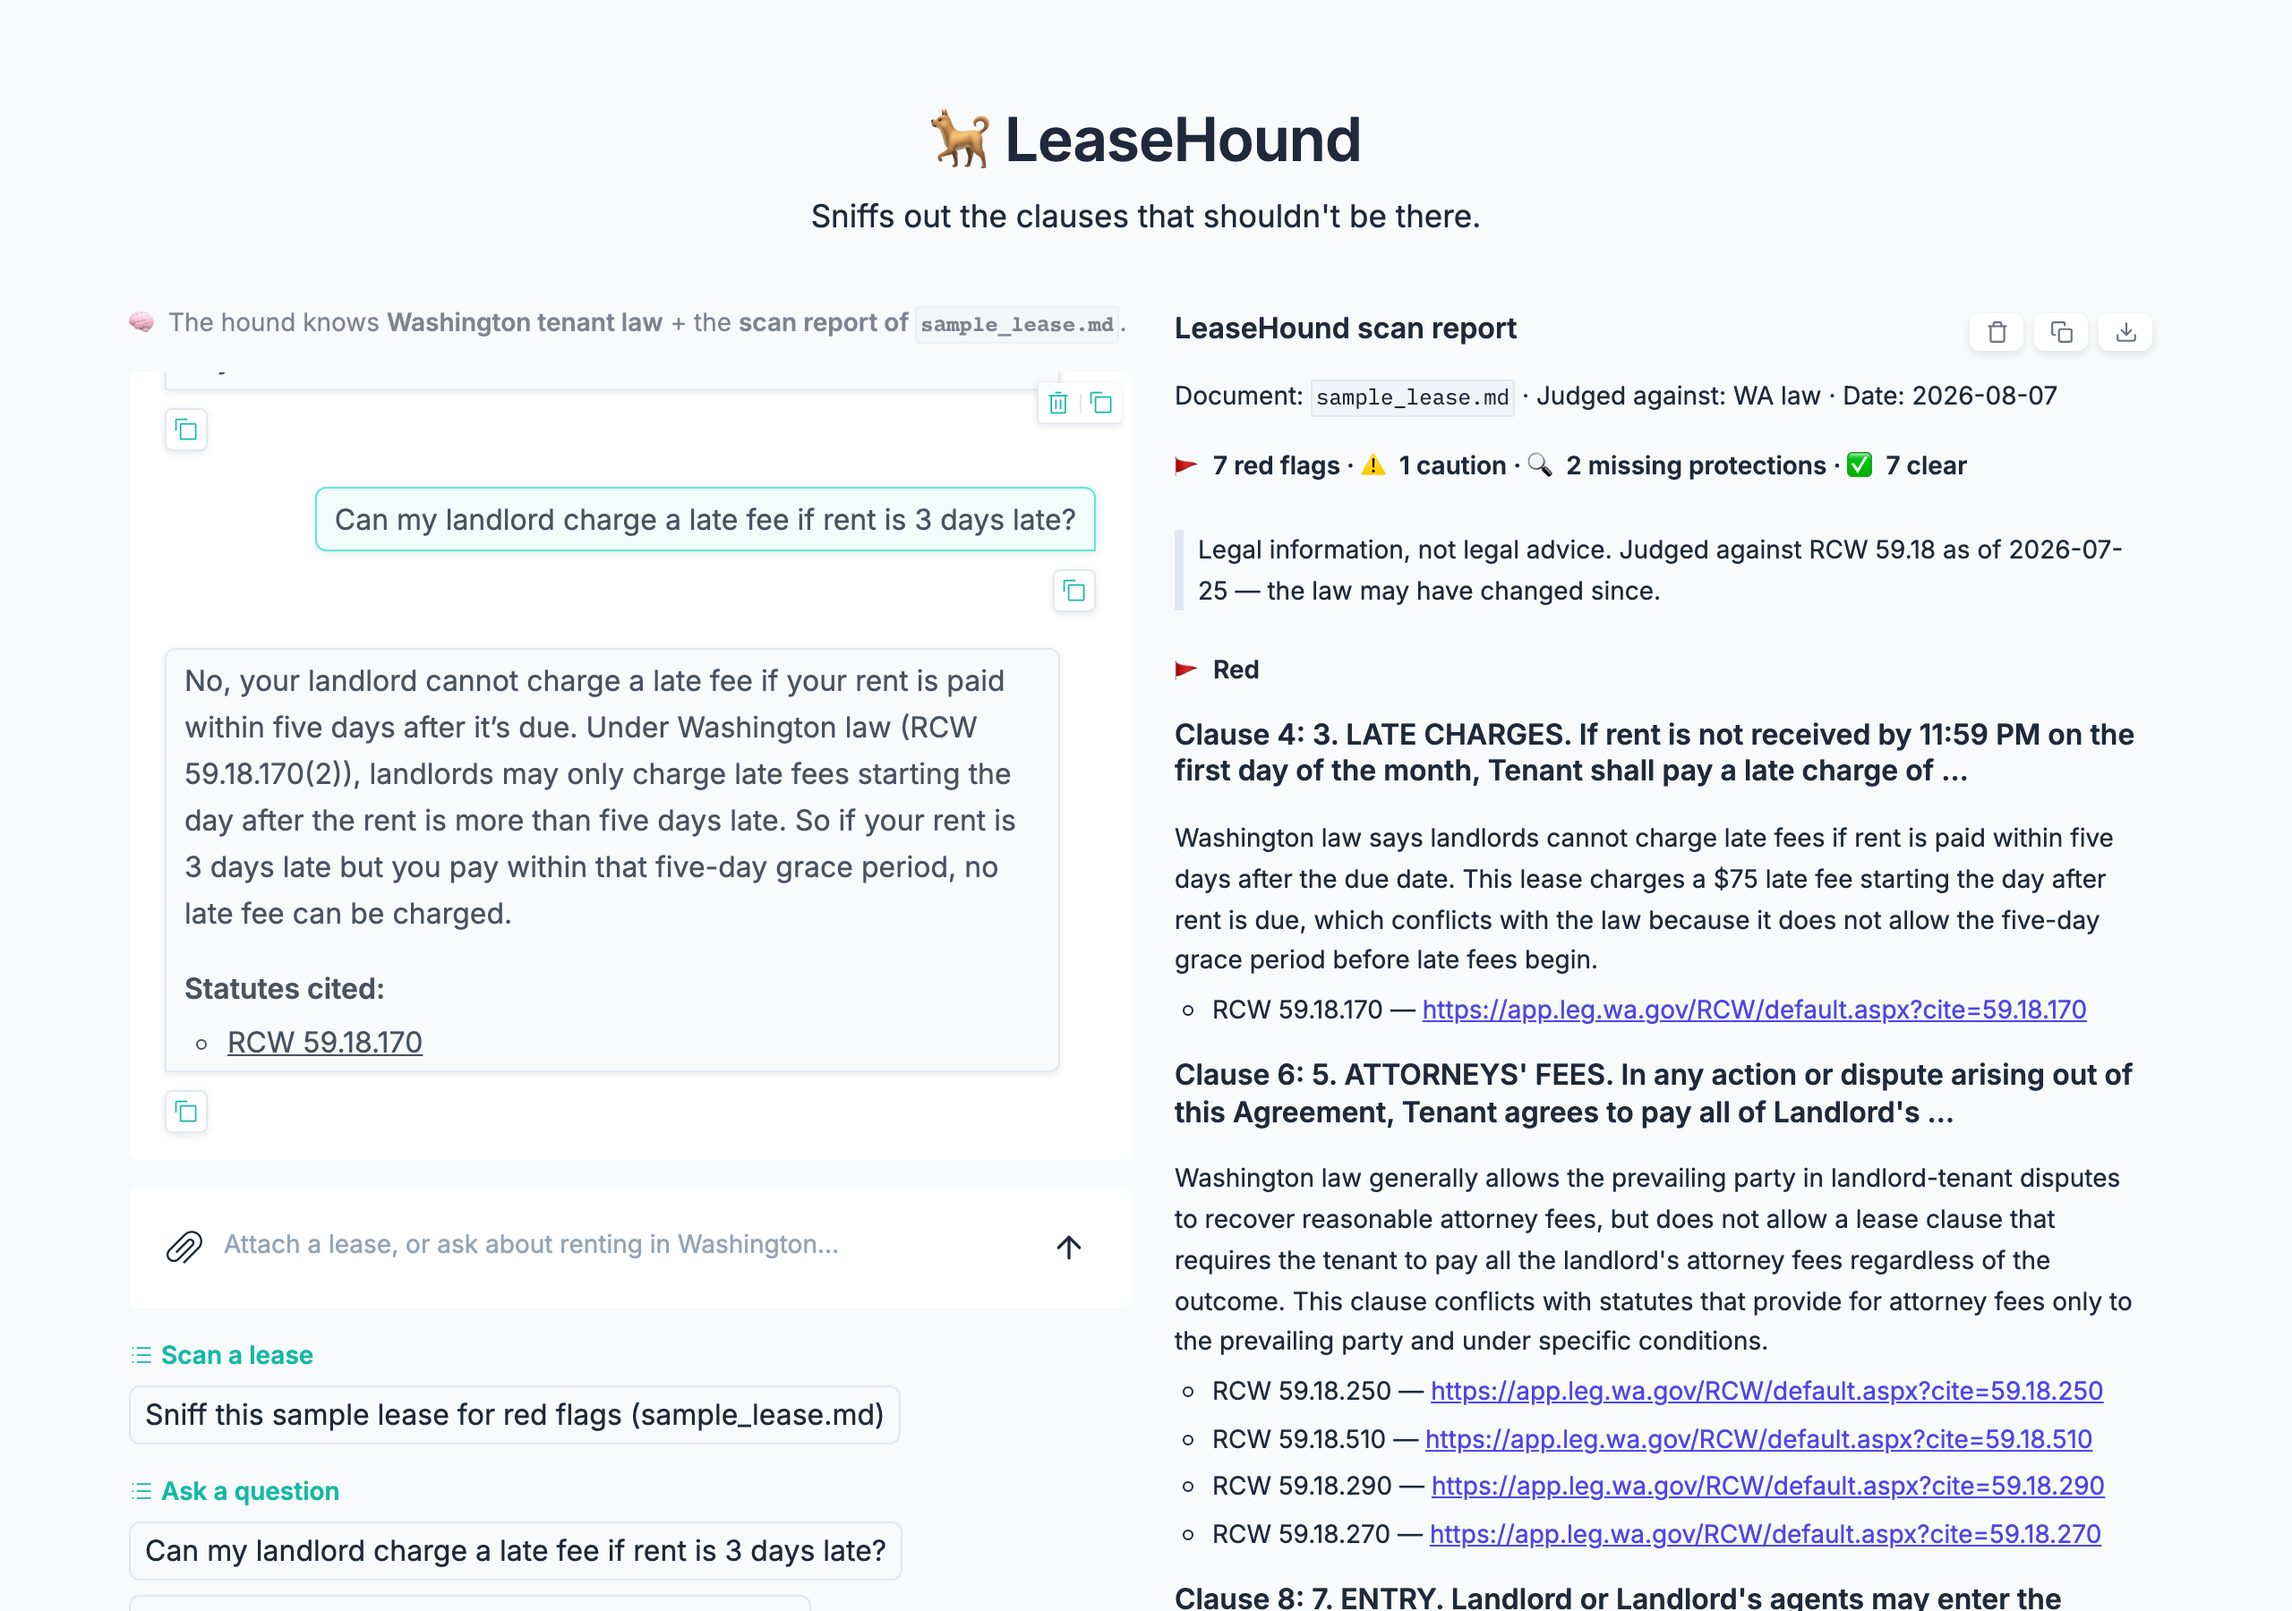
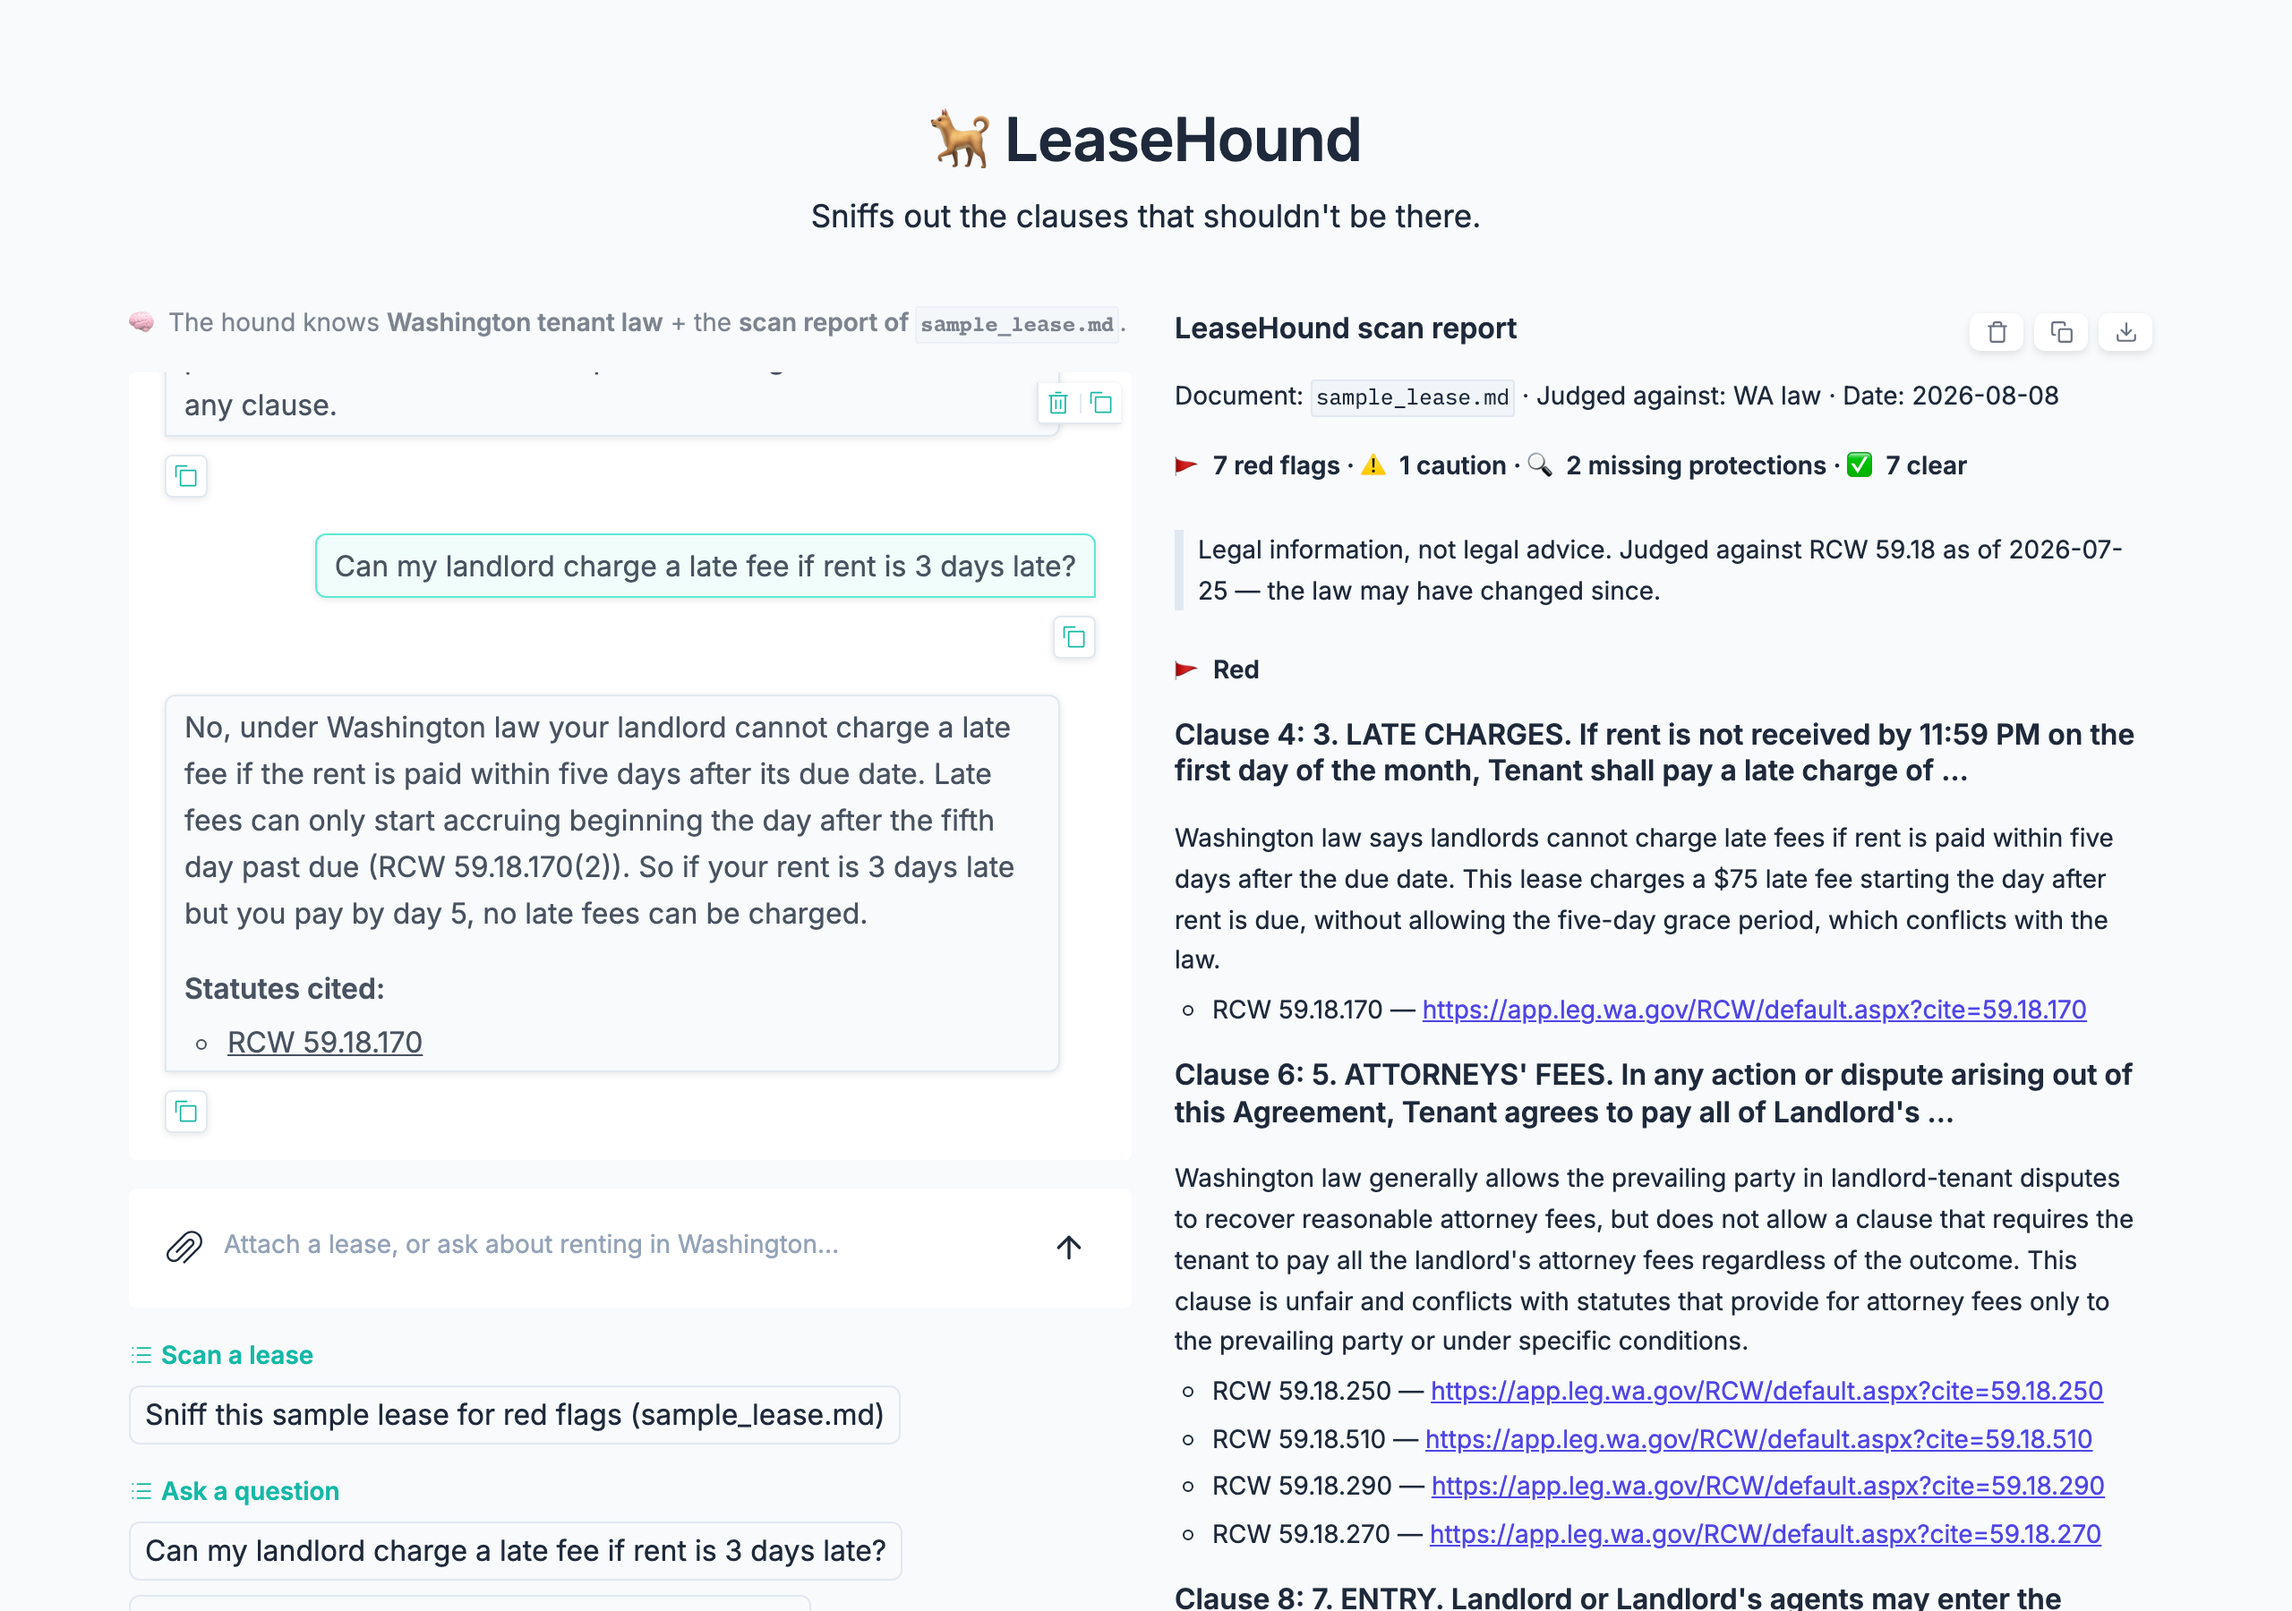
Show both clicks in the demo, and wait for the scan to actually be over
The GIF had one click in it. The scan was started by clicking a chip and the
question was typed into the box by Playwright, so a reader saw the product's
two modes demonstrated two different ways — and the answer arrived from
nowhere. Both are chip clicks now, each with the pointer drawn in and a
ripple, each followed by what it set off.

Making the second one work took three recordings and the diagnosis is the
interesting part. The chip click submitted fine by hand, and fine in a
recording after a CACHED scan, and never in a recording after a live one.
It is not the click: `panel_pinned` goes true on the yield that pins the
report, while the scan's Gradio event is still open, and a chip click during
an open event fills the composer and is never sent. Outside a recording the
gap closes before a human could click into it. So the recording now waits on
the app's own idle signals — the stop button gone, the composer back — and a
fallback types the question if the chip still fails, because a silent
non-submission previously surfaced as a three-minute timeout with nothing to
go on.

Two intermediate theories were wrong and both were cheap to kill by
measuring: that a live scan leaves the composer disabled (it does not, and
that would have been a shipped regression), and that Playwright's
coordinate-based click races PIN_PAGE (dispatching the click in-page changed
nothing).

20.6s of playback for a complete walkthrough: opening still, click, gate,
[…]

diff --git a/scripts/record_demo.py b/scripts/record_demo.py
@@ -212,11 +212,64 @@ def show_question_with_answer(page, question: str) -> None:
     page.wait_for_timeout(700)
 
 
+def question_asked(page, question: str) -> bool:
+    """Whether the question has actually reached the chat as a sent message."""
+    return page.evaluate(
+        """(q) => [...document.querySelectorAll('.chat-col .message')]
+               .some(m => m.innerText.trim().startsWith(q.slice(0, 30)))""",
+        question,
+    )
+
+
 def ask(page, question: str) -> None:
+    """Fallback path: type the question. Only used if its chip has gone missing."""
     box = page.get_by_placeholder("Attach a lease, or ask about renting")
     box.click()
     box.fill(question)
     box.press("Enter")
+
+
+def click_chip(page, text: str, frames: list | None, what: str):
+    """Click an example chip the way a visitor does, with the pointer drawn in.
+
+    Both of the recording's interactions are chip clicks, and only one of them used
+    to look like one: the question was typed into the box by Playwright, so the GIF
+    showed a scan being started by a click and then an answer arriving from nowhere.
+    A reader watching for what to do next had one example, not two.
+    """
+    chip = page.get_by_text(text, exact=False).first
+    chip.wait_for(state="visible", timeout=PHASE_TIMEOUT_S * 1000)
+    # Measured and drawn with the page pinned at the top, because that is the layout
+    # the frame shows. The question chips sit at y≈850 in a 900px viewport, so the
+    # last of the three is below the fold and the first is only just above it.
+    at = centre_of(chip)
+    if frames is not None:
+        frames.append(frame(page, cursor=at, hold_ms=HOLD_BEFORE_CLICK_MS))
+    print(f"clicking {what}…")
+    # Dispatched on the button from inside the page, not driven through the mouse.
+    #
+    # A chip does not submit itself: the app catches the click on `document`, polls
+    # for the composer to fill, then presses send (see EXAMPLES_JS in app.py). A
+    # synthesised mouse click has to survive Playwright's own scroll-into-view, which
+    # races PIN_PAGE — every captured frame scrolls the window back to the top — and
+    # during a recording it lost that race every time while working perfectly when
+    # nothing was screenshotting. The listener is on `document`, so an in-page click
+    # goes through exactly the handler a visitor's click reaches; the difference is
+    # only in how the event is produced, and the pointer drawn into the frame is at
+    # the coordinates the button really occupies.
+    page.evaluate(
+        """(label) => { const button = [...document.querySelectorAll(
+               '#example-scan button, #example-prompts button')]
+               .find(b => b.innerText.includes(label)); if (button) button.click(); }""",
+        text[:40],
+    )
+    page.evaluate(PIN_PAGE)
+    if frames is not None:
+        # The ripple, then the same pointer without it — by the second frame the app
+        # has replaced the chips with what the click set off.
+        frames.append(frame(page, cursor=at, ring=True, hold_ms=HOLD_ON_CLICK_MS))
+        frames.append(frame(page, cursor=at, hold_ms=HOLD_ON_CLICK_MS))
+    return at
 
 
 def shared_palette(images: list[Image.Image]) -> Image.Image:
@@ -368,30 +421,17 @@ def record(url: str, still_only: bool) -> None:
 
         frames: list[Frame] | None = None if still_only else []
 
-        chip = page.get_by_text(SAMPLE_CHIP, exact=False).first
-        chip.wait_for(state="visible", timeout=PHASE_TIMEOUT_S * 1000)
         # The opening second, which the recording did not have: capture started on
         # the first poll AFTER the click, so the GIF began on a page already
         # scanning. A reader saw a counter moving and never saw what set it off.
-        # One held frame with the pointer on the chip is the whole fix.
-        at = centre_of(chip)
-        if frames is not None:
-            frames.append(frame(page, cursor=at, hold_ms=HOLD_BEFORE_CLICK_MS))
-        print(f"clicking {SAMPLE_CHIP!r}…")
-        chip.click()
-        if frames is not None:
-            # Two frames of the click: the ripple, then the same pointer without it.
-            # Between them the app has replaced the chips with "0/N clauses sniffed",
-            # so the counter's start is on screen rather than inferred.
-            frames.append(frame(page, cursor=at, ring=True, hold_ms=HOLD_ON_CLICK_MS))
-            frames.append(frame(page, cursor=at, hold_ms=HOLD_ON_CLICK_MS))
+        click_chip(page, SAMPLE_CHIP, frames, repr(SAMPLE_CHIP))
         # The report PANEL appearing, not a chat message: the fresh path ends with a
         # "Full report on the right" summary and the cached path does not, so keying
         # on that string worked exactly once and then hung for three minutes.
         wait_until(page, panel_pinned(page), "a report was pinned", frames)
         print("  scan finished")
         if frames is not None:
-            # The finished report, before the question starts typing over it. The
+            # The finished report, on its own, before anything is asked of it. The
             # verdict counts are the point of the whole scan and they used to be on
             # screen for one frame's worth of real time.
             frames.append(frame(page, hold_ms=HOLD_ON_REPORT_MS))
@@ -408,8 +448,39 @@ def record(url: str, still_only: bool) -> None:
                 )
             print("  (cache hit — fine for the still, which shows the finished state)")
 
-        print(f"asking: {STILL_QUESTION}")
-        ask(page, STILL_QUESTION)
+        # The second click, and the reason the GIF shows two. Scanning and asking are
+        # the product's two modes and both are one click from the same screen; typing
+        # the question in made the answer look like it arrived on its own.
+        # The panel appearing is not the scan being over. `panel_pinned` goes true on
+        # the yield that pins the report, while the scan's Gradio event is still open
+        # — and a chip click during an open event fills the composer and never gets
+        # sent. It cost three recordings to find, because outside a recording the gap
+        # closes before a human could click into it. The stop button going away and
+        # the composer coming back are the app's own signals that it is idle.
+        wait_until(page, lambda: page.evaluate(
+            """() => { const box = document.querySelector('.chat-col .multimodal-textbox');
+                   const stop = [...document.querySelectorAll('button')]
+                       .find(b => b.innerText.includes('Call off the hound'));
+                   return !box.querySelector('textarea').disabled
+                          && !(stop && stop.offsetParent); }"""),
+            "the scan finished settling", frames, timeout_s=30)
+        if page.get_by_text(STILL_QUESTION, exact=False).count():
+            click_chip(page, STILL_QUESTION, frames, f"the question chip: {STILL_QUESTION}")
+            # Confirmed, not assumed. A chip does not submit itself: the click is
+            # caught by a document-level listener that polls for the box to fill and
+            # then presses send, and that handoff loses the race often enough against
+            # a recording that screenshots continuously. Waiting on the question
+            # appearing in the chat — rather than on the answer, three minutes later —
+            # turns a silent failure into a two-second one with somewhere to go.
+            try:
+                wait_until(page, lambda: question_asked(page, STILL_QUESTION),
+                           "the question was sent", frames, timeout_s=8)
+            except TimeoutError:
+                print("  (the chip click did not submit — typing the question instead)")
+                ask(page, STILL_QUESTION)
+        else:
+            print(f"asking (chip not found, typing): {STILL_QUESTION}")
+            ask(page, STILL_QUESTION)
         wait_until(page, lambda: ANSWER_DONE_MARK in chat_text(page),
                    "the answer finished", frames)
         print("  answer finished")
